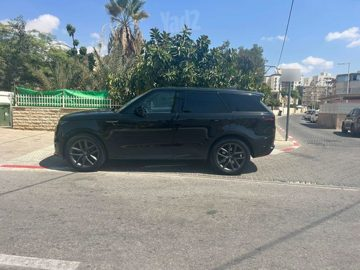
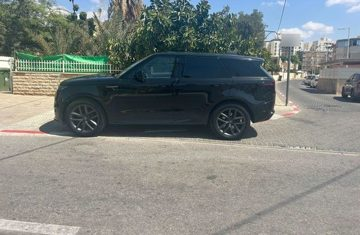
Remove Yad2 watermarks from Range Rover Sport 2025, GLC 200 and Lexus RX photos

diff --git a/index.html b/index.html
@@ -2432,14 +2432,13 @@
           </a>
         </div>
       </li>
-      <!-- Range Rover Sport D300 HSE Dynamic (2025, black, hand 3) · Yad2 listing 058vctn3; MoT registry (053cea08): RANGE R.SPORT 300D-HSE, 2025, black metallic, private, licence valid to 31/12/2026 (the listing says 03/2027), on road 01/2025, tyres 285/45R22, engine DT306; km/hand/sunroof/safety from the listing; 6-cyl mild-hybrid diesel, 650 Nm, 8-speed from Range Rover Sport D300 specs; warranty/service per the seller's description; price 600,000 per the user (listing 595,000). Photos from the listing (640px, Yad2 watermark), plate and street signs blurred -->
+      <!-- Range Rover Sport D300 HSE Dynamic (2025, black, hand 3) · Yad2 listing 058vctn3; MoT registry (053cea08): RANGE R.SPORT 300D-HSE, 2025, black metallic, private, licence valid to 31/12/2026 (the listing says 03/2027), on road 01/2025, tyres 285/45R22, engine DT306; km/hand/sunroof/safety from the listing; 6-cyl mild-hybrid diesel, 650 Nm, 8-speed from Range Rover Sport D300 specs; warranty/service per the seller's description; price 600,000 per the user (listing 595,000). Photos from the listing (640px); Yad2 watermarks cropped out (rrs25-1/2/5) or inpainted (rrs25-4), rrs25-3 dropped; plate and street signs blurred -->
       <li class="car">
         <div class="gallery">
-          <img class="main" loading="lazy" decoding="async" src="cars/rrs25-1.jpg" alt="ריינג׳ רובר ספורט בצבע שחור, מבט מלפנים בזווית" width="640" height="480" style="object-position:50% 55%">
+          <img class="main" loading="lazy" decoding="async" src="cars/rrs25-1.jpg" alt="ריינג׳ רובר ספורט בצבע שחור, מבט מלפנים בזווית" width="528" height="480" style="object-position:50% 55%">
           <div class="thumbs">
             <button type="button" aria-pressed="true" aria-label="מבט מלפנים בזווית" data-src="cars/rrs25-1.jpg" data-pos="50% 55%" data-alt="ריינג׳ רובר ספורט בצבע שחור, מבט מלפנים בזווית"><img src="cars/thumbs/rrs25-1.jpg" alt="" loading="lazy" style="object-position:50% 55%"></button>
             <button type="button" aria-pressed="false" aria-label="מבט מהצד" data-src="cars/rrs25-2.jpg" data-pos="50% 50%" data-alt="ריינג׳ רובר ספורט בצבע שחור, מבט מהצד"><img src="cars/thumbs/rrs25-2.jpg" alt="" loading="lazy" style="object-position:50% 50%"></button>
-            <button type="button" aria-pressed="false" aria-label="מבט מלפנים מהצד השני" data-src="cars/rrs25-3.jpg" data-pos="50% 55%" data-alt="ריינג׳ רובר ספורט בצבע שחור, מבט מלפנים בזווית מהצד השני"><img src="cars/thumbs/rrs25-3.jpg" alt="" loading="lazy" style="object-position:50% 55%"></button>
             <button type="button" aria-pressed="false" aria-label="מבט מלפנים" data-src="cars/rrs25-4.jpg" data-pos="50% 50%" data-alt="ריינג׳ רובר ספורט בצבע שחור, מבט מלפנים"><img src="cars/thumbs/rrs25-4.jpg" alt="" loading="lazy" style="object-position:50% 50%"></button>
             <button type="button" aria-pressed="false" aria-label="תא הנוסעים" data-src="cars/rrs25-5.jpg" data-pos="50% 50%" data-alt="ריינג׳ רובר ספורט, תא הנוסעים בריפוד בהיר"><img src="cars/thumbs/rrs25-5.jpg" alt="" loading="lazy" style="object-position:50% 50%"></button>
           </div>
